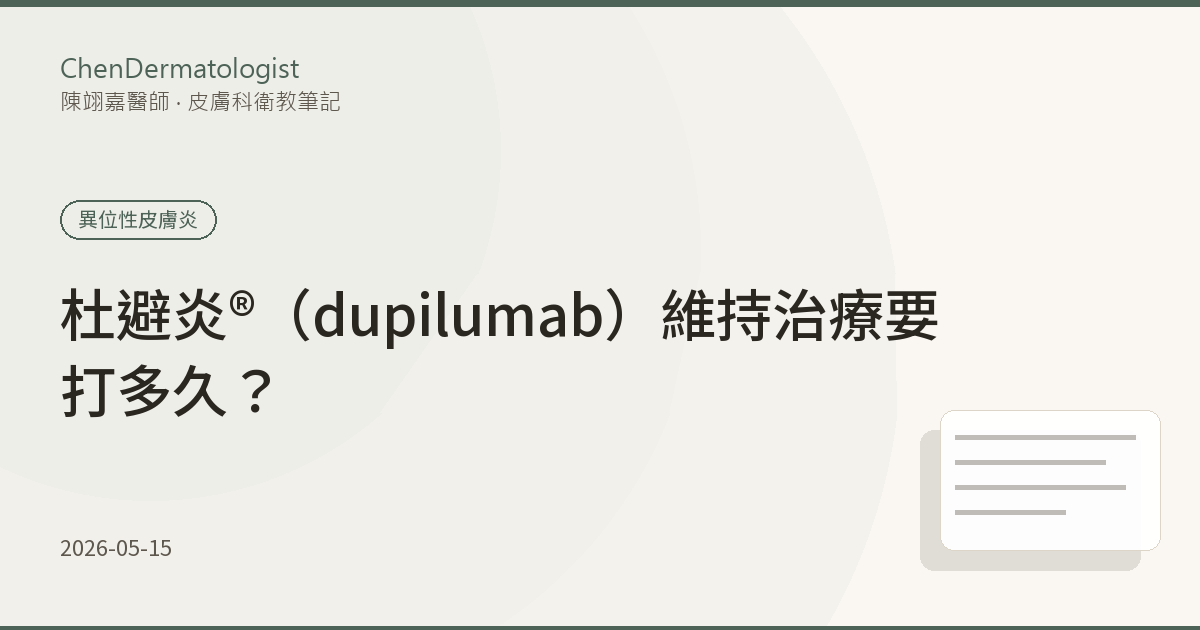
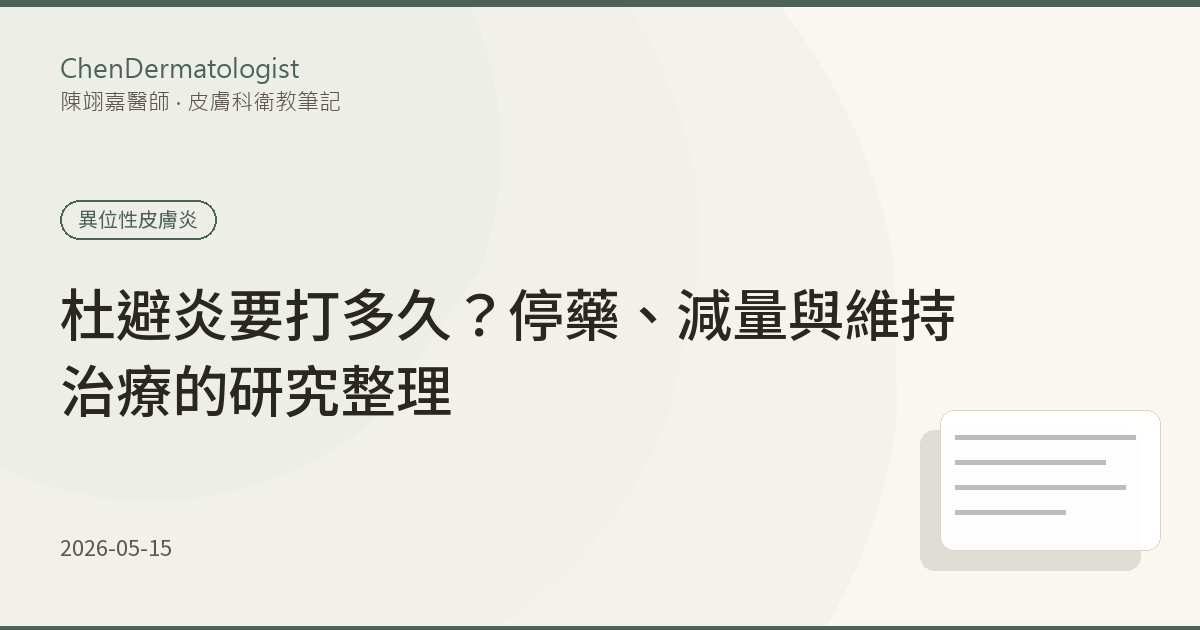
Refresh patient article share cards and validate render sources
Match three share cards to their approved article headings while preserving disease labels and publication dates. Track source and PNG/WebP hashes, reject missing adopted evidence and altered labels, and integrate regression checks into the quality gate.

Codex-GPT-5.5-Review: passed

Claude-Opus-5-Review: pending
Claude-Opus-5-Review-Effort: high

Changed region(s): [[0.185, 0.4524, 0.8017, 0.5429], [0.0308, 0.573, 0.37, 0.6635]]

diff --git a/_gen_og_cards.py b/_gen_og_cards.py
@@ -33,15 +33,19 @@ USAGE
     python _gen_og_cards.py             # render only the cards that are missing
     python _gen_og_cards.py --check     # exit 1 if any article has no card
     python _gen_og_cards.py --force     # re-render everything (rebuilds the set)
+    python _gen_og_cards.py --only slug --tag 'Approved tag'
 
-This is a local authoring tool, not a gate step: the cards are committed
-assets, and CI has no CJK font. _check_seo_signals asserts the coverage.
+Rendering is local authoring work: cards are committed assets, and CI has no
+CJK font. The read-only --check path validates coverage and recorded sources
+without importing Pillow or requiring fonts.
 """
 from __future__ import annotations
 
 import argparse
 import collections
 import html
+import hashlib
+import json
 import re
 import sys
 from pathlib import Path
@@ -49,6 +53,53 @@ from pathlib import Path
 ROOT = Path(__file__).resolve().parent
 BLOG = ROOT / "blog"
 OG_DIR = ROOT / "assets" / "og"
+SOURCES_FILE = ROOT / "_og_card_sources.json"
+# Reviewed cards cannot silently revert to legacy/unverified status when their
+# evidence entry is deleted. Extend this explicit migration scope when adopting
+# additional cards; do not infer it from the evidence file being validated.
+APPROVED_CARD_TAGS = {
+    'dupilumab-long-term-maintenance': '異位性皮膚炎',
+    'topical-acids-patient': '酸類',
+    'prurigo-nodularis': '結節性癢疹',
+}
+REQUIRED_CARD_SOURCES = frozenset(APPROVED_CARD_TAGS)
+
+
+def read_card_sources() -> dict:
+    if not SOURCES_FILE.exists():
+        return {}
+    records = json.loads(SOURCES_FILE.read_text(encoding="utf-8"))
+    if not isinstance(records, dict):
+        raise ValueError("OG source records must be an object")
+    return records
+
+
+def check_card_sources(records: dict) -> list[str]:
+    """Check recorded renders only; legacy cards are explicitly unverified."""
+    targets = {card_slug(p): p for p in card_targets()}
+    errors = [f"{slug}: required render source evidence missing"
+              for slug in sorted(REQUIRED_CARD_SOURCES - records.keys())]
+    for slug, record in records.items():
+        if (slug not in targets or not isinstance(record, dict)
+                or not isinstance(record.get('files'), dict)
+                or not isinstance(record.get('source'), dict)):
+            errors.append(f"{slug}: invalid source record")
+            continue
+        fields = article_fields(targets[slug])
+        tag = record.get('rendered_tag')
+        if not isinstance(tag, str) or not tag.strip():
+            errors.append(f"{slug}: rendered tag is missing or invalid")
+        elif slug in APPROVED_CARD_TAGS and tag != APPROVED_CARD_TAGS[slug]:
+            errors.append(f"{slug}: rendered tag differs from the approved label")
+        source = {k: fields.get(k, '') for k in ('title', 'subtitle', 'date')} if fields else None
+        if source != record.get('source'):
+            errors.append(f"{slug}: article title/subtitle/date changed; refresh card")
+        for ext in ('png', 'webp'):
+            path = OG_DIR / f"{slug}.{ext}"
+            digest = hashlib.sha256(path.read_bytes()).hexdigest() if path.is_file() else None
+            if not digest or digest != record.get('files', {}).get(ext):
+                errors.append(f"{slug}: {ext} differs from the recorded render")
+    return errors
 
 sys.path.insert(0, str(ROOT))
 from _html_scan import iter_tags, tag_name  # noqa: E402
@@ -486,18 +537,46 @@ def main() -> int:
                     help="report missing cards and exit 1; render nothing")
     ap.add_argument("--force", action="store_true",
                     help="re-render every article's card, not just the missing ones")
+    ap.add_argument("--only", nargs='+', help="re-render only these exact card filename stems")
+    ap.add_argument("--tag", help="preserve an approved tag when rendering one --only card")
     args = ap.parse_args()
 
+    if args.only and (args.force or args.check):
+        ap.error('--only cannot be combined with --force or --check')
+    if args.tag is not None and (not args.only or len(args.only) != 1):
+        ap.error('--tag requires exactly one --only card')
+    if args.tag is not None:
+        if not args.tag.strip():
+            ap.error('--tag must not be blank')
+        approved = APPROVED_CARD_TAGS.get(args.only[0])
+        if approved is not None and args.tag != approved:
+            ap.error('--tag differs from the approved label; review the label mapping first')
+    records = read_card_sources()
+
     todo = slugs_needing_cards(args.force)
+    if args.only:
+        targets = {card_slug(p): p for p in card_targets()}
+        unknown = set(args.only) - targets.keys()
+        if unknown:
+            ap.error('unknown card(s): ' + ', '.join(sorted(unknown)))
+        todo = [targets[slug] for slug in dict.fromkeys(args.only)]
     if args.check:
+        if not SOURCES_FILE.is_file():
+            print('[FAIL] OG render source evidence is missing')
+            return 1
         missing = slugs_needing_cards(False)
         if missing:
             print(f"[FAIL] {len(missing)} article(s) have no OG card:")
             for p in missing[:20]:
                 print(f"  - assets/og/{card_slug(p)}.png")
             return 1
-        print(f"[OK] every article has an OG card "
-              f"({len(list(OG_DIR.glob('*.png')))} cards)")
+        errors = check_card_sources(records)
+        if errors:
+            for error in errors:
+                print(f"[FAIL] {error}")
+            return 1
+        print(f"[OK] card coverage; {len(records)} recorded renders match sources and files. "
+              f"{len(card_targets()) - len(records)} legacy cards have no source evidence.")
         return 0
 
     if not todo:
@@ -516,6 +595,15 @@ def main() -> int:
         if not fields or not fields["title"]:
             skipped.append(path.stem)
             continue
+        if args.tag is not None:
+            fields['tag'] = args.tag
+        elif card_slug(path) in APPROVED_CARD_TAGS:
+            fields['tag'] = APPROVED_CARD_TAGS[card_slug(path)]
+        elif isinstance(records.get(card_slug(path)), dict):
+            # A broad topic classification must not replace a reviewed card label.
+            previous_tag = records[card_slug(path)].get('rendered_tag')
+            if isinstance(previous_tag, str):
+                fields['tag'] = previous_tag
         # CODE_REVIEW TD-70 — `photo and photo.exists()` collapsed two
         # different situations into one: "this page has no portrait" and "this
         # page is CONFIGURED to have a portrait and the file is gone". The
@@ -537,9 +625,17 @@ def main() -> int:
         png = OG_DIR / f"{slug}.png"
         card.save(png, format="PNG", optimize=True)
         card.save(OG_DIR / f"{slug}.webp", format="WEBP", quality=88, method=6)
+        records[slug] = {
+            'source': {k: fields.get(k, '') for k in ('title', 'subtitle', 'date')},
+            'rendered_tag': fields['tag'],
+            'files': {ext: hashlib.sha256((OG_DIR / f"{slug}.{ext}").read_bytes()).hexdigest()
+                      for ext in ('png', 'webp')},
+        }
         written += 1
         print(f"  + {png.relative_to(ROOT).as_posix()}  {fields['title'][:34]}")
 
+    if written:
+        SOURCES_FILE.write_text(json.dumps(records, ensure_ascii=False, indent=2) + '\n', encoding='utf-8')
     print(f"[OK] rendered {written} card(s) (+ webp)")
     if skipped:
         print(f"[WARN] skipped {len(skipped)} page(s) with no usable <h1>: "

diff --git a/_test_og_card_sources.py b/_test_og_card_sources.py
@@ -1,0 +1,65 @@
+"""Regression checks for share-card source drift, without fonts or rendering."""
+import hashlib
+import tempfile
+import unittest
+from pathlib import Path
+from unittest.mock import patch
+
+import _gen_og_cards as cards
+
+
+class CardSourcesTest(unittest.TestCase):
+    def test_source_and_both_image_formats_must_match(self):
+        with tempfile.TemporaryDirectory() as folder:
+            root = Path(folder)
+            page = root / 'sample.html'
+            source = {'title': 'Original title', 'subtitle': '', 'date': '2026-05-15'}
+            files = {}
+            for ext in ('png', 'webp'):
+                data = ('fixture-' + ext).encode()
+                (root / ('sample.' + ext)).write_bytes(data)
+                files[ext] = hashlib.sha256(data).hexdigest()
+            record = {'source': dict(source), 'rendered_tag': 'Preserved label', 'files': files}
+            with patch.object(cards, 'OG_DIR', root), patch.object(cards, 'card_targets', return_value=[page]), \
+                    patch.object(cards, 'REQUIRED_CARD_SOURCES', frozenset({'sample'})), \
+                    patch.object(cards, 'card_slug', return_value='sample'), \
+                    patch.object(cards, 'article_fields', return_value=source):
+                self.assertEqual(cards.check_card_sources({'sample': record}), [])
+                self.assertTrue(cards.check_card_sources({}))
+                for key in ('title', 'subtitle', 'date'):
+                    original = source[key]
+                    source[key] = 'Changed'
+                    self.assertTrue(cards.check_card_sources({'sample': record}), key)
+                    source[key] = original
+                for ext in ('png', 'webp'):
+                    path = root / ('sample.' + ext)
+                    original = path.read_bytes()
+                    path.write_bytes(b'changed')
+                    self.assertTrue(cards.check_card_sources({'sample': record}), ext)
+                    path.unlink()
+                    self.assertTrue(cards.check_card_sources({'sample': record}), ext)
+                    path.write_bytes(original)
+                self.assertTrue(cards.check_card_sources({'sample': {'source': None}}))
+                self.assertTrue(cards.check_card_sources({'unknown': record}))
+
+    def test_all_adopted_cards_require_evidence(self):
+        self.assertEqual(cards.REQUIRED_CARD_SOURCES, {
+            'dupilumab-long-term-maintenance', 'topical-acids-patient', 'prurigo-nodularis',
+        })
+        records = cards.read_card_sources()
+        self.assertEqual(cards.check_card_sources(records), [])
+        for slug in cards.REQUIRED_CARD_SOURCES:
+            incomplete = {key: value for key, value in records.items() if key != slug}
+            self.assertIn(f'{slug}: required render source evidence missing',
+                          cards.check_card_sources(incomplete))
+            for tag in (None, '', 'Wrong label', 123):
+                with self.subTest(slug=slug, tag=tag):
+                    altered = {**records, slug: {**records[slug], 'rendered_tag': tag}}
+                    self.assertTrue(cards.check_card_sources(altered))
+            without_tag = dict(records[slug])
+            del without_tag['rendered_tag']
+            self.assertTrue(cards.check_card_sources({**records, slug: without_tag}))
+
+
+if __name__ == '__main__':
+    unittest.main()

diff --git a/_run_quality.py b/_run_quality.py
@@ -229,6 +229,8 @@ CHECK_STEPS: list[list[str]] = [
     ["node", "--test", "_test_runtime_edges.mjs", "_test_admin_skeleton.mjs", "_test_admin_sessions.cjs", "_test_admin_persistence.cjs", "_test_navigation.cjs", "_test_search_integrity.cjs"],
     [PY, "_test_navigation_generation.py"],
     [PY, "_test_search_scope.py"],
+    [PY, "_test_og_card_sources.py"],
+    [PY, "_gen_og_cards.py", "--check"],
     [PY, "_test_review_fixes.py"],
     [PY, "_check_meta.py", "--fast"],
     [PY, "_check_metadata_uniqueness.py"],
